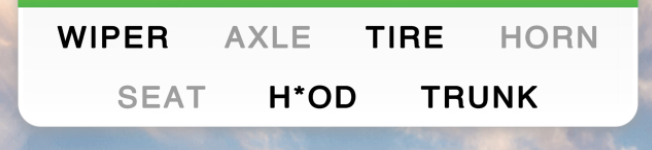
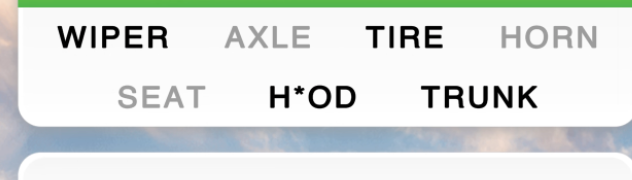
.

diff --git a/word_search.py b/word_search.py
@@ -52,7 +52,7 @@ def get_puzzle_grid(grid_image_path: str):
     # Convert image to grayscale
     gray = cv2.cvtColor(img, cv2.COLOR_BGR2GRAY)
     
-    # Apply adaptive thresholding to improve contrast
+    # Improve OCR with adaptive thresholding
     processed = cv2.adaptiveThreshold(
         gray, 255, cv2.ADAPTIVE_THRESH_GAUSSIAN_C,
         cv2.THRESH_BINARY_INV, 11, 2
@@ -64,29 +64,22 @@ def get_puzzle_grid(grid_image_path: str):
     lines = text.split("\n")
     grid = []
 
-    # Process each row, ensuring equal column count
-    max_cols = 0
+    # Remove empty lines and non-letter symbols
+    lines = [line.strip().upper() for line in lines if line.strip()]
+    max_cols = max(len(line) for line in lines)
+
     for line in lines:
-        line = line.strip().upper()
-        if not line:
-            continue
-
-        # Normalize letters and remove non-alphabetic characters
-        parts = [char for char in line if char.isalpha()]
-        if parts:
-            grid.append(parts)
-            max_cols = max(max_cols, len(parts))
-
-    # **Normalize row lengths** to prevent misalignment
-    for row in grid:
+        row = [char for char in line if char.isalpha()]
         while len(row) < max_cols:
-            row.append(" ")  # Fill with spaces to maintain alignment
+            row.append(" ")  # Fill missing spaces
+        grid.append(row)
 
     print("\n📝 Final Parsed Grid:")
     for row in grid:
         print(" ".join(row))
 
     return grid
+
 # -------------------------------------------------------
 def find_word_in_grid(grid, word):
     """Searches for a word in the grid, checking all 8 directions with full debug info."""
@@ -113,7 +106,6 @@ def find_word_in_grid(grid, word):
                 print(f"   ➡ Checking '{word}' starting at ({r},{c})")
 
                 for (dr, dc) in DIRECTIONS:
-                    print(f"   🔍 Checking direction (Δr={dr}, Δc={dc}) from ({r},{c})")
                     rr, cc = r, c
                     match = True
                     found_positions = [(rr, cc)]  # Track where letters are found
@@ -128,7 +120,7 @@ def find_word_in_grid(grid, word):
                             break
 
                         # If character doesn't match, stop searching
-                        if grid[rr][cc].strip() != word[i]:  # Ignore extra spaces
+                        if grid[rr][cc] != word[i]:
                             match = False
                             break
 
@@ -142,18 +134,3 @@ def find_word_in_grid(grid, word):
 
     print(f"🚫 '{word}' not found in puzzle at all.\n")
     return None
-
-# -------------------------------------------------------
-def find_all_words_in_grid(grid):
-    """Detects all dictionary words in the grid, even if they are not in the clue list."""
-    found_words = []
-    
-    # Simple built-in dictionary (replace this with a real word list if needed)
-    COMMON_WORDS = {"HORN", "AXLE", "TIRE", "SEAT", "TRUNK", "WIPER", "CAR", "RELATED", "ITEMS", "PARK", "ROAD", "RACE"}
-
-    for word in COMMON_WORDS:
-        loc = find_word_in_grid(grid, word)
-        if loc:
-            found_words.append((word, loc))
-
-    return found_words

diff --git a/Main.py b/Main.py
@@ -7,8 +7,7 @@ from window_capture import get_window_bounds, capture_region_screenshot
 from word_search import (
     get_clue_words,
     get_puzzle_grid,
-    find_word_in_grid,
-    find_all_words_in_grid
+    find_word_in_grid
 )
 
 # If Tesseract is not in PATH, set it manually:
@@ -31,8 +30,8 @@ def main():
         sys.exit(1)
     (win_x, win_y, win_w, win_h) = bounds
 
-    capture_region_screenshot(1181, 200, 326, 75, "crossword_region.png")
-    capture_region_screenshot(1181, 275, 316, 370, "crossword_search.png")
+    capture_region_screenshot(1181, 200, 316, 90, "crossword_region.png")
+    capture_region_screenshot(1181, 290, 316, 360, "crossword_search.png")
 
     clue_words = get_clue_words("crossword_region.png")
     print("🔎 Clue Words:", clue_words)
@@ -41,22 +40,13 @@ def main():
     if not grid:
         print("❌ OCR failed to extract a puzzle grid.")
         sys.exit(1)
+
     print("\n🧩 Puzzle Grid for Search:")
-for row in grid:
-    print(" | ".join(row))  # Adds better spacing to avoid merging issues
-    print("\n")
+    for row in grid:
+        print(" | ".join(row))
 
-    found_words_info = []
     for w in clue_words:
-        loc = find_word_in_grid(grid, w)
-        if loc:
-            found_words_info.append((w, loc))
-
-    auto_detected_words = find_all_words_in_grid(grid)
-    if auto_detected_words:
-        print("\n🔎 Additional Words Found in Grid:")
-        for word, loc in auto_detected_words:
-            print(f"✅ Found '{word}' at {loc}")
+        find_word_in_grid(grid, w)
 
     print("✅ Word search complete.")
 
